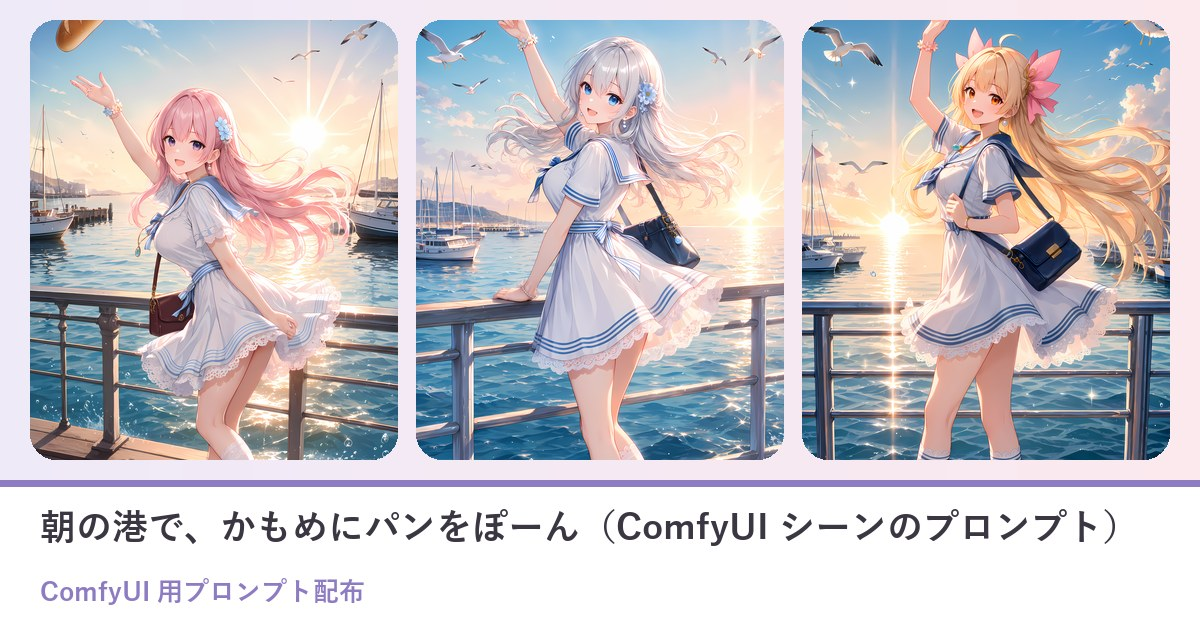
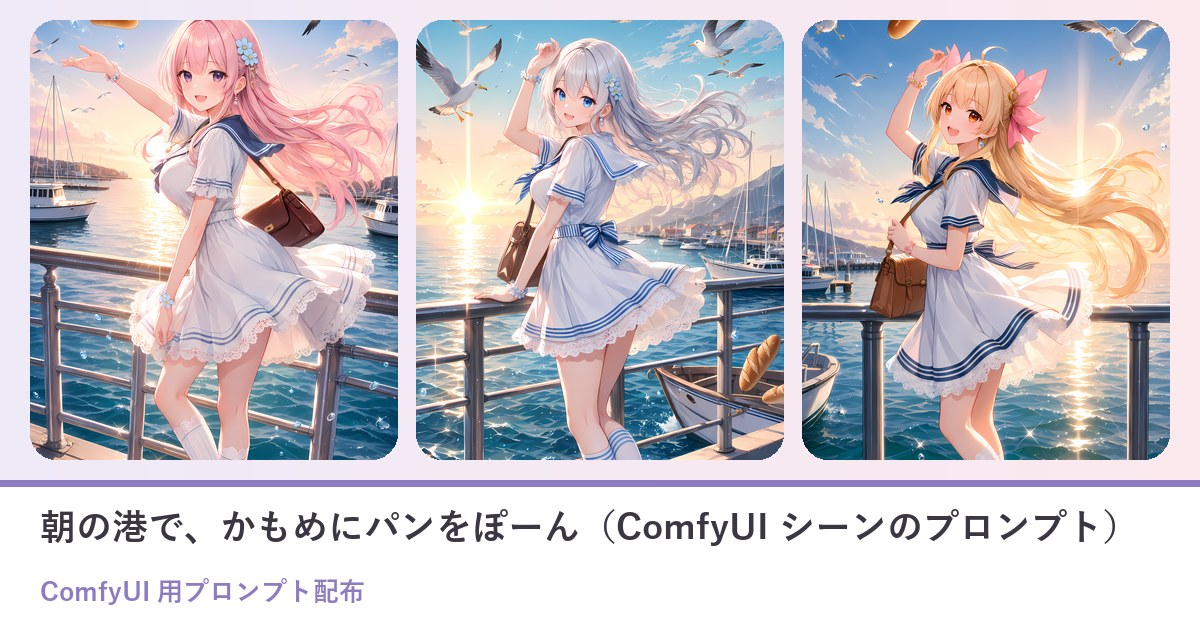
配布 10/16 かもめにパン（ComfyUI）＝作例3人を焼き直し（手の破綻）・キャプションと会話劇を新しい絵に

diff --git a/prompts/2026-10-16-comfy-ivs44udj.html b/prompts/2026-10-16-comfy-ivs44udj.html
@@ -45,11 +45,11 @@
 @media(max-width:560px){.ps-ba{grid-template-columns:1fr}.ps-ba .arr{transform:rotate(90deg);text-align:center}.ps-vars,.ps-vars tbody,.ps-vars tr,.ps-vars th,.ps-vars td{display:block;width:auto;white-space:normal}.ps-vars tr:first-child{display:none}.ps-vars tr{border-bottom:1px solid var(--ps-line);padding:4px 0}.ps-vars th,.ps-vars td{border:0;padding:6px 12px}}
 .ps{overflow-wrap:anywhere}.ps-vars td,.ps-vars th{overflow-wrap:anywhere}.ps img{max-width:100%}
 </style><!--ps-meta {"date": "2026-10-16", "title": "朝の港で、かもめにパンをぽーん（ComfyUI シーンのプロンプト）", "kind": "comfy", "nsfw": false, "summary": "朝日の港で、かもめにパンを投げ上げて振り返る一枚。LoRA なしでも貼るだけで綺麗に出ます。", "thumb": "img/2026-10-16-comfy-ivs44udj/ex1.webp"}-->
-</head><body class="decor-page decor-bubble"><div class="page-decor" aria-hidden="true"><div class="decor-layer decor-bubble-layer"><i></i><i></i><i></i><i></i><i></i><i></i><i></i><i></i><i></i><i></i><i></i><i></i></div></div><header class="site-header"><div class="container"><a class="brand" href="../index.html"><span class="brand-script">Lupinus</span><span class="brand-sub">AI Bloom Sisters</span></a><button class="menu-toggle" aria-label="menu" onclick="document.getElementById('nav').classList.toggle('open')">≡</button><nav class="nav" id="nav"><a href="../index.html">Home</a><a href="../about.html">About</a><a href="../portfolio.html">Portfolio</a><a href="../gallery.html">Gallery</a><a href="../blog/index.html" class="active">Blog</a><a href="../sns.html">SNS</a><a href="../coming-soon.html">Contact</a></nav></div></header><main class="article"><header class="article-header"><div class="date">2026-10-16<span class="day-chip">プロンプト配布</span></div><h1>朝の港で、かもめにパンをぽーん（ComfyUI シーンのプロンプト）</h1></header><div class="article-body"><div class="ps"><p><span class="ps-badge">ComfyUI 用</span><span class="ps-badge">2026-10-16</span></p><p class="ps-lead">ComfyUI（Anima）に貼るだけで、朝日の港の一枚に。桟橋の手すりにもたれて、かもめの群れにパンを投げ上げながら、こちらを振り返って笑う女の子。セーラー襟の白いワンピース、日の出の光の筋、港に並ぶヨット。LoRA がない方は、1行目の髪の色と髪型を書き換えるだけで、あなたの子に近づけられます。</p><nav class="ps-toc" aria-label="目次"><p>📑 目次</p><ol><li><a href="#sec1">作例</a></li><li><a href="#sec2">3人のおしゃべり（かもめのパン争奪クイズ）</a></li><li><a href="#sec3">使い方（3ステップ）</a></li><li><a href="#sec4">プロンプト</a></li><li><a href="#sec5">必要なもの（ComfyUI）</a></li><li><a href="#sec6">メモ</a></li><li><a href="#sec7">配布ルール</a></li></ol></nav><h2 id="sec1">作例</h2><div class="ps-ex"><figure><img src="img/2026-10-16-comfy-ivs44udj/ex1.webp" alt="フィオナの LoRA で焼いた作例（B のプロンプト）。桟橋の手すりのそばで片手を高く上げて、パンをぽーん。朝日の逆光で、ピンクの髪がふわっと光っています" loading="lazy"><figcaption>フィオナの LoRA で焼いた作例（B のプロンプト）。桟橋の手すりのそばで片手を高く上げて、パンをぽーん。朝日の逆光で、ピンクの髪がふわっと光っています</figcaption></figure><figure><img src="img/2026-10-16-comfy-ivs44udj/ex2.webp" alt="同じプロンプトをルピナスの LoRA で。手すりに片手をついて、肩ごしに振り返りながらパンをひょいっ。銀色の髪が海風になびいています" loading="lazy"><figcaption>同じプロンプトをルピナスの LoRA で。手すりに片手をついて、肩ごしに振り返りながらパンをひょいっ。銀色の髪が海風になびいています</figcaption></figure><figure><img src="img/2026-10-16-comfy-ivs44udj/ex3.webp" alt="同じプロンプトをアイリスの LoRA で。片手を思いきり空に上げて、かもめの群れに向かって満面の笑顔（アイリスは髪のお花の飾りを外して焼いています）" loading="lazy"><figcaption>同じプロンプトをアイリスの LoRA で。片手を思いきり空に上げて、かもめの群れに向かって満面の笑顔（アイリスは髪のお花の飾りを外して焼いています）</figcaption></figure></div><p style="font-size:.82rem;color:var(--ps-ink)">※作例の画像の転載・保存しての再配布はご遠慮ください。</p><h2 id="sec2">3人のおしゃべり（かもめのパン争奪クイズ）</h2><div class="ps-chat"><img src="img/2026-10-16-comfy-ivs44udj/talk_fiona_happy.webp" alt="フィオナ" loading="lazy"><div><div class="who">フィオナ</div><div class="bub">では問題です。朝の港でパンを投げ上げたら、最初にくわえるのはどのかもめでしょう？</div></div></div><div class="ps-chat r"><img src="img/2026-10-16-comfy-ivs44udj/talk_iris_laugh.webp" alt="アイリス" loading="lazy"><div><div class="who">アイリス</div><div class="bub">はいはい！ あたしは、後ろからものすごい速さで来る、いちばん食いしんぼうの子！</div></div></div><div class="ps-chat r"><img src="img/2026-10-16-comfy-ivs44udj/talk_lupinus_thinking.webp" alt="ルピナス" loading="lazy"><div><div class="who">ルピナス</div><div class="bub">わたしは、いちばん近くを飛んでた子かな。フィオナからクイズなんてめずらしいね</div></div></div><div class="ps-chat"><img src="img/2026-10-16-comfy-ivs44udj/talk_fiona_shy.webp" alt="フィオナ" loading="lazy"><div><div class="who">フィオナ</div><div class="bub">ふふ、正解は……投げた瞬間に群れが一斉に集まってきて、誰だか分からなくなりました</div></div></div><div class="ps-chat r"><img src="img/2026-10-16-comfy-ivs44udj/talk_iris_surprised.webp" alt="アイリス" loading="lazy"><div><div class="who">アイリス</div><div class="bub">それクイズになってないよー！ でも、3人とも同じ文で焼いたんだよね？</div></div></div><div class="ps-chat r"><img src="img/2026-10-16-comfy-ivs44udj/talk_lupinus_happy.webp" alt="ルピナス" loading="lazy"><div><div class="who">ルピナス</div><div class="bub">うん。わたしは手すりに片手をついて、肩ごしに振り返る形になったよ。髪が海風でふわってなってた</div></div></div><div class="ps-chat r"><img src="img/2026-10-16-comfy-ivs44udj/talk_iris_devious.webp" alt="アイリス" loading="lazy"><div><div class="who">アイリス</div><div class="bub">あたしは手を思いきり上げて、かもめに全力で手をふってる感じ！ パンより目立ってたかも</div></div></div><div class="ps-chat"><img src="img/2026-10-16-comfy-ivs44udj/talk_fiona_happy.webp" alt="フィオナ" loading="lazy"><div><div class="who">フィオナ</div><div class="bub">私は逆光で、髪がピンクに光っていました。朝日が港の水にきらきら映って、きれいでしたよ</div></div></div><div class="ps-chat r"><img src="img/2026-10-16-comfy-ivs44udj/talk_lupinus_normal.webp" alt="ルピナス" loading="lazy"><div><div class="who">ルピナス</div><div class="bub">これ、LoRA がなくても大丈夫なの。A の文の1行目、髪の色と髪型を自分の子に書き換えるだけ</div></div></div><div class="ps-chat"><img src="img/2026-10-16-comfy-ivs44udj/talk_fiona_happy.webp" alt="フィオナ" loading="lazy"><div><div class="who">フィオナ</div><div class="bub">LoRA がある方は B の文で、トリガー語を一か所入れかえるだけです。試し焼きでも港とかもめがちゃんと出ました</div></div></div><div class="ps-chat r"><img src="img/2026-10-16-comfy-ivs44udj/talk_iris_laugh.webp" alt="アイリス" loading="lazy"><div><div class="who">アイリス</div><div class="bub">でもさ、パンが空のどこに飛ぶかは毎回ちがうんだよね。手のすぐ上だったり、雲の近くだったり！</div></div></div><div class="ps-chat r"><img src="img/2026-10-16-comfy-ivs44udj/talk_lupinus_wink.webp" alt="ルピナス" loading="lazy"><div><div class="who">ルピナス</div><div class="bub">そうそう。パンが浮いてるみたいに見えたら、seed を変えて何枚か焼いてみてね</div></div></div><div class="ps-chat"><img src="img/2026-10-16-comfy-ivs44udj/talk_fiona_shy.webp" alt="フィオナ" loading="lazy"><div><div class="who">フィオナ</div><div class="bub">ところで……焼いているうちに、私もお腹がすいてきました。港のパン屋さん、まだ開いていますか？</div></div></div><div class="ps-chat r"><img src="img/2026-10-16-comfy-ivs44udj/talk_iris_laugh.webp" alt="アイリス" loading="lazy"><div><div class="who">アイリス</div><div class="bub">かもめにあげる分と、あたしたちの分！ パン、おかわり買ってこよう！</div></div></div><h2 id="sec3">使い方（3ステップ）</h2><ol class="ps-steps"><li>ComfyUI で Anima のモデルを読み、基本の画像生成（テキストから画像）の画面にする</li><li>下の A（LoRA なし）か B（LoRA あり）のポジティブと、ネガティブをワンタップでコピーして貼る</li><li>「推奨値」の大きさ・steps・CFG にして生成する（できれば 1.5 倍の hires fix も）</li></ol><h2 id="sec4">プロンプト</h2><div class="ps-note" style="margin-bottom:12px"><b>変えるのは1行目の色の付いたところだけ</b>（先頭の <code>1girl, solo</code> などはそのまま）<ul><li>使うプロンプトは2通り＝<b>A. LoRA を持っていない人</b>／<b>B. 自分のキャラの LoRA を持っている人</b>。どちらも丸ごとコピーして貼るだけ</li><li>A は<b>そのまま</b>でも綺麗な女の子で出ます。自分のキャラにするなら1行目の髪の色・髪型・目の色を書き換えるだけ</li><li>B は1行目の <code>your_lora_trigger</code> を自分の LoRA のトリガー語に置きかえるだけ（LoRA の強さは下の表）</li><li>2行目から下（シーン）と、ネガティブプロンプトは変えずにそのまま</li><li>🚫 版権キャラの名前・版権キャラの LoRA を入れて使うのは固く禁止です（下の「配布ルール」）</li></ul></div><h3 style="margin:14px 0 8px">A. LoRA を持っていない人（そのままでもOK）</h3><div class="ps-box"><button class="ps-copy" type="button" data-target="ps-prompt">📋 ワンタップでコピー</button><p style="margin:0 0 8px;font-size:.82rem;color:var(--ps-a)">ポジティブプロンプト</p><pre>1girl, solo, <mark class="ps-in" data-key="キャラの行">long hair, pink hair, wavy hair, purple eyes</mark>
+</head><body class="decor-page decor-bubble"><div class="page-decor" aria-hidden="true"><div class="decor-layer decor-bubble-layer"><i></i><i></i><i></i><i></i><i></i><i></i><i></i><i></i><i></i><i></i><i></i><i></i></div></div><header class="site-header"><div class="container"><a class="brand" href="../index.html"><span class="brand-script">Lupinus</span><span class="brand-sub">AI Bloom Sisters</span></a><button class="menu-toggle" aria-label="menu" onclick="document.getElementById('nav').classList.toggle('open')">≡</button><nav class="nav" id="nav"><a href="../index.html">Home</a><a href="../about.html">About</a><a href="../portfolio.html">Portfolio</a><a href="../gallery.html">Gallery</a><a href="../blog/index.html" class="active">Blog</a><a href="../sns.html">SNS</a><a href="../coming-soon.html">Contact</a></nav></div></header><main class="article"><header class="article-header"><div class="date">2026-10-16<span class="day-chip">プロンプト配布</span></div><h1>朝の港で、かもめにパンをぽーん（ComfyUI シーンのプロンプト）</h1></header><div class="article-body"><div class="ps"><p><span class="ps-badge">ComfyUI 用</span><span class="ps-badge">2026-10-16</span></p><p class="ps-lead">ComfyUI（Anima）に貼るだけで、朝日の港の一枚に。桟橋の手すりにもたれて、かもめの群れにパンを投げ上げながら、こちらを振り返って笑う女の子。セーラー襟の白いワンピース、日の出の光の筋、港に並ぶヨット。LoRA がない方は、1行目の髪の色と髪型を書き換えるだけで、あなたの子に近づけられます。</p><nav class="ps-toc" aria-label="目次"><p>📑 目次</p><ol><li><a href="#sec1">作例</a></li><li><a href="#sec2">3人のおしゃべり（かもめのパン争奪クイズ）</a></li><li><a href="#sec3">使い方（3ステップ）</a></li><li><a href="#sec4">プロンプト</a></li><li><a href="#sec5">必要なもの（ComfyUI）</a></li><li><a href="#sec6">メモ</a></li><li><a href="#sec7">配布ルール</a></li></ol></nav><h2 id="sec1">作例</h2><div class="ps-ex"><figure><img src="img/2026-10-16-comfy-ivs44udj/ex1.webp" alt="フィオナの LoRA で焼いた作例（B のプロンプト）。桟橋の手すりのそばで片手を高く上げて、パンをぽーん。朝日の逆光で、ピンクの髪がふわっと光っています" loading="lazy"><figcaption>フィオナの LoRA で焼いた作例（B のプロンプト）。桟橋の手すりのそばで片手を高く上げて、パンをぽーん。朝日の逆光で、ピンクの髪がふわっと光っています</figcaption></figure><figure><img src="img/2026-10-16-comfy-ivs44udj/ex2.webp" alt="同じプロンプトをルピナスの LoRA で。手すりに片手をついて、肩ごしに振り返りながら、もう片手は頭の横でひらり。パンは足もとのボートに落ちてしまいました" loading="lazy"><figcaption>同じプロンプトをルピナスの LoRA で。手すりに片手をついて、肩ごしに振り返りながら、もう片手は頭の横でひらり。パンは足もとのボートに落ちてしまいました</figcaption></figure><figure><img src="img/2026-10-16-comfy-ivs44udj/ex3.webp" alt="同じプロンプトをアイリスの LoRA で。片手を高く上げて、空に舞ったパンとかもめの群れに満面の笑顔（アイリスは髪のお花の飾りを外して焼いています）" loading="lazy"><figcaption>同じプロンプトをアイリスの LoRA で。片手を高く上げて、空に舞ったパンとかもめの群れに満面の笑顔（アイリスは髪のお花の飾りを外して焼いています）</figcaption></figure></div><p style="font-size:.82rem;color:var(--ps-ink)">※作例の画像の転載・保存しての再配布はご遠慮ください。</p><h2 id="sec2">3人のおしゃべり（かもめのパン争奪クイズ）</h2><div class="ps-chat"><img src="img/2026-10-16-comfy-ivs44udj/talk_fiona_happy.webp" alt="フィオナ" loading="lazy"><div><div class="who">フィオナ</div><div class="bub">では問題です。朝の港でパンを投げ上げたら、最初にくわえるのはどのかもめでしょう？</div></div></div><div class="ps-chat r"><img src="img/2026-10-16-comfy-ivs44udj/talk_iris_laugh.webp" alt="アイリス" loading="lazy"><div><div class="who">アイリス</div><div class="bub">はいはい！ あたしは、後ろからものすごい速さで来る、いちばん食いしんぼうの子！</div></div></div><div class="ps-chat r"><img src="img/2026-10-16-comfy-ivs44udj/talk_lupinus_thinking.webp" alt="ルピナス" loading="lazy"><div><div class="who">ルピナス</div><div class="bub">わたしは、いちばん近くを飛んでた子かな。フィオナからクイズなんてめずらしいね</div></div></div><div class="ps-chat"><img src="img/2026-10-16-comfy-ivs44udj/talk_fiona_shy.webp" alt="フィオナ" loading="lazy"><div><div class="who">フィオナ</div><div class="bub">ふふ、正解は……投げた瞬間に群れが一斉に集まってきて、誰だか分からなくなりました</div></div></div><div class="ps-chat r"><img src="img/2026-10-16-comfy-ivs44udj/talk_iris_surprised.webp" alt="アイリス" loading="lazy"><div><div class="who">アイリス</div><div class="bub">それクイズになってないよー！ でも、3人とも同じ文で焼いたんだよね？</div></div></div><div class="ps-chat r"><img src="img/2026-10-16-comfy-ivs44udj/talk_lupinus_happy.webp" alt="ルピナス" loading="lazy"><div><div class="who">ルピナス</div><div class="bub">うん。わたしは手すりに片手をついて、肩ごしに振り返る形になったよ。髪が海風でふわってなってた</div></div></div><div class="ps-chat r"><img src="img/2026-10-16-comfy-ivs44udj/talk_iris_devious.webp" alt="アイリス" loading="lazy"><div><div class="who">アイリス</div><div class="bub">あたしは手を思いきり上げて、かもめに全力で手をふってる感じ！ パンより目立ってたかも</div></div></div><div class="ps-chat"><img src="img/2026-10-16-comfy-ivs44udj/talk_fiona_happy.webp" alt="フィオナ" loading="lazy"><div><div class="who">フィオナ</div><div class="bub">私は逆光で、髪がピンクに光っていました。朝日が港の水にきらきら映って、きれいでしたよ</div></div></div><div class="ps-chat r"><img src="img/2026-10-16-comfy-ivs44udj/talk_lupinus_normal.webp" alt="ルピナス" loading="lazy"><div><div class="who">ルピナス</div><div class="bub">これ、LoRA がなくても大丈夫なの。A の文の1行目、髪の色と髪型を自分の子に書き換えるだけ</div></div></div><div class="ps-chat"><img src="img/2026-10-16-comfy-ivs44udj/talk_fiona_happy.webp" alt="フィオナ" loading="lazy"><div><div class="who">フィオナ</div><div class="bub">LoRA がある方は B の文で、トリガー語を一か所入れかえるだけです。試し焼きでも港とかもめがちゃんと出ました</div></div></div><div class="ps-chat r"><img src="img/2026-10-16-comfy-ivs44udj/talk_iris_laugh.webp" alt="アイリス" loading="lazy"><div><div class="who">アイリス</div><div class="bub">でもさ、パンが空のどこに飛ぶかは毎回ちがうんだよね。手のすぐ上だったり、雲の近くだったり、足もとのボートの中だったり！</div></div></div><div class="ps-chat r"><img src="img/2026-10-16-comfy-ivs44udj/talk_lupinus_wink.webp" alt="ルピナス" loading="lazy"><div><div class="who">ルピナス</div><div class="bub">そうそう。パンが浮いてるみたいに見えたら、seed を変えて何枚か焼いてみてね</div></div></div><div class="ps-chat"><img src="img/2026-10-16-comfy-ivs44udj/talk_fiona_shy.webp" alt="フィオナ" loading="lazy"><div><div class="who">フィオナ</div><div class="bub">ところで……焼いているうちに、私もお腹がすいてきました。港のパン屋さん、まだ開いていますか？</div></div></div><div class="ps-chat r"><img src="img/2026-10-16-comfy-ivs44udj/talk_iris_laugh.webp" alt="アイリス" loading="lazy"><div><div class="who">アイリス</div><div class="bub">かもめにあげる分と、あたしたちの分！ パン、おかわり買ってこよう！</div></div></div><h2 id="sec3">使い方（3ステップ）</h2><ol class="ps-steps"><li>ComfyUI で Anima のモデルを読み、基本の画像生成（テキストから画像）の画面にする</li><li>下の A（LoRA なし）か B（LoRA あり）のポジティブと、ネガティブをワンタップでコピーして貼る</li><li>「推奨値」の大きさ・steps・CFG にして生成する（できれば 1.5 倍の hires fix も）</li></ol><h2 id="sec4">プロンプト</h2><div class="ps-note" style="margin-bottom:12px"><b>変えるのは1行目の色の付いたところだけ</b>（先頭の <code>1girl, solo</code> などはそのまま）<ul><li>使うプロンプトは2通り＝<b>A. LoRA を持っていない人</b>／<b>B. 自分のキャラの LoRA を持っている人</b>。どちらも丸ごとコピーして貼るだけ</li><li>A は<b>そのまま</b>でも綺麗な女の子で出ます。自分のキャラにするなら1行目の髪の色・髪型・目の色を書き換えるだけ</li><li>B は1行目の <code>your_lora_trigger</code> を自分の LoRA のトリガー語に置きかえるだけ（LoRA の強さは下の表）</li><li>2行目から下（シーン）と、ネガティブプロンプトは変えずにそのまま</li><li>🚫 版権キャラの名前・版権キャラの LoRA を入れて使うのは固く禁止です（下の「配布ルール」）</li></ul></div><h3 style="margin:14px 0 8px">A. LoRA を持っていない人（そのままでもOK）</h3><div class="ps-box"><button class="ps-copy" type="button" data-target="ps-prompt">📋 ワンタップでコピー</button><p style="margin:0 0 8px;font-size:.82rem;color:var(--ps-a)">ポジティブプロンプト</p><pre>1girl, solo, <mark class="ps-in" data-key="キャラの行">long hair, pink hair, wavy hair, purple eyes</mark>
 masterpiece, best quality, score_7, safe, full body, from side, looking back, looking at viewer, smile, open mouth, :d, standing, leaning, railing, arm up, throwing, bread, seagull, flock, pier, harbor, ocean, boat, outdoors, morning, sunrise, clear sky, sunlight, backlighting, lens flare, light rays, high contrast, warm colors, wind, wind lift, floating hair, sailor dress, white dress, striped clothes, sailor collar, short sleeves, miniskirt, frills, lace trim, satin, hair flower, pearl earrings, pendant, flower bracelet, kneehighs, mary janes, shoulder bag, water drop, sparkle</pre><textarea class="ps-copyarea" id="ps-prompt" readonly aria-hidden="true" tabindex="-1">1girl, solo, long hair, pink hair, wavy hair, purple eyes
 masterpiece, best quality, score_7, safe, full body, from side, looking back, looking at viewer, smile, open mouth, :d, standing, leaning, railing, arm up, throwing, bread, seagull, flock, pier, harbor, ocean, boat, outdoors, morning, sunrise, clear sky, sunlight, backlighting, lens flare, light rays, high contrast, warm colors, wind, wind lift, floating hair, sailor dress, white dress, striped clothes, sailor collar, short sleeves, miniskirt, frills, lace trim, satin, hair flower, pearl earrings, pendant, flower bracelet, kneehighs, mary janes, shoulder bag, water drop, sparkle</textarea></div><h3 style="margin:18px 0 8px">B. 自分のキャラの LoRA を持っている人</h3><div class="ps-box"><button class="ps-copy" type="button" data-target="ps-prompt-lora">📋 ワンタップでコピー</button><p style="margin:0 0 8px;font-size:.82rem;color:var(--ps-a)">ポジティブプロンプト（LoRA 用）</p><pre>masterpiece, best quality, score_7, year 2025, highres, absurdres, <mark class="ps-in" data-key="キャラの行">your_lora_trigger</mark>, 1girl, solo,
 full body, from side, looking back, looking at viewer, smile, open mouth, :d, standing, leaning, railing, arm up, throwing, bread, seagull, flock, pier, harbor, ocean, boat, outdoors, morning, sunrise, clear sky, sunlight, backlighting, lens flare, light rays, high contrast, warm colors, wind, wind lift, floating hair, sailor dress, white dress, striped clothes, sailor collar, short sleeves, miniskirt, frills, lace trim, satin, hair flower, pearl earrings, pendant, flower bracelet, kneehighs, mary janes, shoulder bag, water drop, sparkle</pre><textarea class="ps-copyarea" id="ps-prompt-lora" readonly aria-hidden="true" tabindex="-1">masterpiece, best quality, score_7, year 2025, highres, absurdres, your_lora_trigger, 1girl, solo,
-full body, from side, looking back, looking at viewer, smile, open mouth, :d, standing, leaning, railing, arm up, throwing, bread, seagull, flock, pier, harbor, ocean, boat, outdoors, morning, sunrise, clear sky, sunlight, backlighting, lens flare, light rays, high contrast, warm colors, wind, wind lift, floating hair, sailor dress, white dress, striped clothes, sailor collar, short sleeves, miniskirt, frills, lace trim, satin, hair flower, pearl earrings, pendant, flower bracelet, kneehighs, mary janes, shoulder bag, water drop, sparkle</textarea></div><table class="ps-vars" style="margin-top:10px"><tr><th>LoRA のつなぎ方</th><td colspan="2">Load Diffusion Model（Anima）のうしろに LoraLoaderModelOnly を1つ足す（CLIP にはつながない）</td></tr><tr><th>LoRA の強さ（strength_model）</th><td colspan="2">0.8〜0.9（作例は 0.85）</td></tr><tr><th>1行目</th><td colspan="2">your_lora_trigger を自分の LoRA のトリガー語に置きかえる（髪や目の色は LoRA が覚えているので書かなくてOK）</td></tr></table><div style="height:12px"></div><div class="ps-box"><button class="ps-copy" type="button" data-target="ps-negative-lora">📋 ワンタップでコピー</button><p style="margin:0 0 8px;font-size:.82rem;color:var(--ps-a)">ネガティブプロンプト（B 用）</p><pre>lowres, bad quality, worst quality, score_1, score_2, score_3, poorly drawn, flat color, sketch, jpeg artifacts, mutated, ugly, disfigured, long body, bad anatomy, bad hands, missing fingers, extra fingers, simple background, transparent background, blurry, furry, child, loli, chibi, baby face, signature, watermark, artist name, username, web address, patreon username, logo, detailed pupils, sparkling eyes, twinkling eyes, glowing pupils, glowing eyes, star-shaped pupils, colored highlight in pupil, japanese text, chinese text, korean text, kanji, hiragana, katakana, calligraphy</pre><textarea class="ps-copyarea" id="ps-negative-lora" readonly aria-hidden="true" tabindex="-1">lowres, bad quality, worst quality, score_1, score_2, score_3, poorly drawn, flat color, sketch, jpeg artifacts, mutated, ugly, disfigured, long body, bad anatomy, bad hands, missing fingers, extra fingers, simple background, transparent background, blurry, furry, child, loli, chibi, baby face, signature, watermark, artist name, username, web address, patreon username, logo, detailed pupils, sparkling eyes, twinkling eyes, glowing pupils, glowing eyes, star-shaped pupils, colored highlight in pupil, japanese text, chinese text, korean text, kanji, hiragana, katakana, calligraphy</textarea></div><div class="ps-note" style="margin-top:10px"><b>作例の絵（ポストの絵）は、この B のポジティブとネガティブで作りました</b>（<code>your_lora_trigger</code> のところに、その子の LoRA のトリガー語と見た目の語を入れただけ・語の順番もこのまま）。そのあと手だけを描き直す仕上げと 4K への拡大をしています。</div><div style="height:12px"></div><div class="ps-box"><button class="ps-copy" type="button" data-target="ps-negative">📋 ワンタップでコピー</button><p style="margin:0 0 8px;font-size:.82rem;color:var(--ps-a)">ネガティブプロンプト（A 用）</p><pre>worst quality, low quality, lowres, bad anatomy, bad hands, extra fingers, missing fingers, fused fingers, blurry, jpeg artifacts, text, watermark, signature, logo, extra person, multiple girls, cropped, out of frame, japanese text, chinese text, korean text, kanji, hiragana, katakana, calligraphy</pre><textarea class="ps-copyarea" id="ps-negative" readonly aria-hidden="true" tabindex="-1">worst quality, low quality, lowres, bad anatomy, bad hands, extra fingers, missing fingers, fused fingers, blurry, jpeg artifacts, text, watermark, signature, logo, extra person, multiple girls, cropped, out of frame, japanese text, chinese text, korean text, kanji, hiragana, katakana, calligraphy</textarea></div><h2 id="sec5">必要なもの（ComfyUI）</h2><div class="ps-note">🧩 <b>カスタムノードは使っていません</b>。LoRA が無くても大丈夫（A のプロンプト）。ComfyUI の基本の画像生成（テキストから画像）に、ポジティブ・ネガティブを貼って、下の推奨値にするだけです。LoRA を使う人は「LoraLoaderModelOnly」を1つ足すだけ（B のプロンプト）。</div><table class="ps-vars" style="margin-top:12px"><tr><th>モデル</th><th>ファイル</th><th>置き場</th></tr><tr><td>Anima 系のモデル（本体）</td><td>お好きな Anima 系のモデル</td><td><code>models/diffusion_models</code></td></tr><tr><td>テキストエンコーダ</td><td>Anima と一緒に配られているもの</td><td><code>models/text_encoders</code></td></tr><tr><td>VAE</td><td>Anima と一緒に配られているもの</td><td><code>models/vae</code></td></tr></table><h2>推奨値</h2><table class="ps-vars"><tr><th>大きさ</th><td colspan="2">864×1536（864×1536（縦長））</td></tr><tr><th>steps</th><td colspan="2">30</td></tr><tr><th>CFG</th><td colspan="2">4.5</td></tr><tr><th>sampler</th><td colspan="2">er_sde</td></tr><tr><th>scheduler</th><td colspan="2">beta</td></tr><tr><th>hires fix（任意）</th><td colspan="2">1.5 倍に拡大して denoise 0.4・同じ steps と CFG（試し焼きはこれ）</td></tr><tr><th>LoRA</th><td colspan="2">無くてOK（A のプロンプト）。自分のキャラの LoRA があれば B のプロンプトで</td></tr></table><h2 id="sec6">メモ</h2><ul class="ps-rules"><li>1行目（髪の色・長さ・髪型・目の色）だけ、あなたの子に合わせて書き換えてください。2行目から下（服・場所・光）は変えなくて大丈夫です。</li><li>縦長（864×1536）で、横から見た全身の構図です。手すりのそばで振り返り、片手を上げる形になります。</li><li>パンの位置は毎回少し変わります（手のすぐ上・空の高いところ など）。パンが手から離れて見えないときは seed を変えて何枚か焼いてみてください。</li><li>試し焼き（LoRA なし）でも、朝日の港・ヨット・かもめ・セーラー襟のワンピースがちゃんと入りました。髪は1行目どおりの色です。</li></ul><h2 id="sec7">配布ルール</h2><ul class="ps-rules"><li>⭕ プロンプトの改変は自由です。</li><li>⭕ 生成した画像は SNS に投稿して大丈夫です。</li><li>❌ プロンプト文そのものの転載・再配布・販売はしないでください。</li><li>❌ 自作のプロンプトだと名乗ることはやめてください。</li><li>❌ このページの作例画像の無断転載はしないでください。</li><li class="ps-rights">🚫 <b>アニメ・漫画・ゲームなどの版権キャラクター（著作権・商標のあるキャラ）、他の人のキャラクターやイラスト、実在の人物の写真を添付画像にして使うことは固く禁止します。</b>版権キャラの名前や、版権キャラの LoRA を入れて使うことも禁止です。</li><li>✅ 添付してよいのは、<b>自分で作ったキャラクター・自分が権利を持つ画像</b>（または権利者から使ってよいと言われた画像）だけです。</li><li>⚠ 生成した画像の使い方（投稿・公開など）は、使った人の責任でお願いします。権利の問題が起きても、配布者は責任を負えません。</li><li>💌 使ったら <b>#ルピナスプロンプト</b> を付けて見せてくれたら、とても嬉しいです（任意です）。</li></ul><p class="ps-bn-ask" style="margin:22px 0 0;font-size:.92rem">📚 これまでの配布プロンプト（バックナンバー）が見たい方は、直接ルピナスまでお気軽にお問い合わせください。</p></div></div><p id="ps-views" hidden style="text-align:center;font-size:12px;opacity:.55;margin:22px 0 6px"></p></main><footer class="site-footer"><div class="container"><div class="brand-script">Lupinus Rossetti</div><p class="tagline">AI Bloom Sisters &mdash; flower language: imagination</p><div class="sns-row"><a class="sns-link" href="https://x.com/irisfionaAIBS" target="_blank" rel="noopener"><span class="dot"></span>X (Twitter)</a><a class="sns-link" href="https://www.youtube.com/@AIBloomSisters" target="_blank" rel="noopener"><span class="dot"></span>YouTube</a><a class="sns-link" href="https://note.com/rupi_airupi" target="_blank" rel="noopener"><span class="dot"></span>note</a><a class="sns-link" href="https://lupinus-rossetti.fanbox.cc/" target="_blank" rel="noopener"><span class="dot"></span>FANBOX</a></div><p class="copy">&copy; 2026 AI Bloom Sisters. All rights reserved.</p><p style="font-size:.78em;color:var(--ink-faint);margin-top:8px"><a href="../privacy.html" style="color:var(--ink-faint)">プライバシーポリシー</a>　<a href="../stream-info.html" style="color:var(--ink-faint)">配信のご案内</a></p></div></footer><script>(function(){if(window.matchMedia&&window.matchMedia('(prefers-reduced-motion: reduce)').matches)return;var els=document.querySelectorAll('.reveal');if(!els.length||!('IntersectionObserver'in window))return;var io=new IntersectionObserver(function(es){es.forEach(function(e){if(e.isIntersecting){e.target.classList.add('is-visible');io.unobserve(e.target);}});},{rootMargin:'0px 0px -10% 0px'});els.forEach(function(el){io.observe(el);});})();</script><script>window.goatcounter={path:function(p){return location.host+p}};</script>
+full body, from side, looking back, looking at viewer, smile, open mouth, :d, standing, leaning, railing, arm up, throwing, bread, seagull, flock, pier, harbor, ocean, boat, outdoors, morning, sunrise, clear sky, sunlight, backlighting, lens flare, light rays, high contrast, warm colors, wind, wind lift, floating hair, sailor dress, white dress, striped clothes, sailor collar, short sleeves, miniskirt, frills, lace trim, satin, hair flower, pearl earrings, pendant, flower bracelet, kneehighs, mary janes, shoulder bag, water drop, sparkle</textarea></div><table class="ps-vars" style="margin-top:10px"><tr><th>LoRA のつなぎ方</th><td colspan="2">Load Diffusion Model（Anima）のうしろに LoraLoaderModelOnly を1つ足す（CLIP にはつながない）</td></tr><tr><th>LoRA の強さ（strength_model）</th><td colspan="2">0.8〜0.9（作例は 0.85）</td></tr><tr><th>1行目</th><td colspan="2">your_lora_trigger を自分の LoRA のトリガー語に置きかえる（髪や目の色は LoRA が覚えているので書かなくてOK）</td></tr></table><div style="height:12px"></div><div class="ps-box"><button class="ps-copy" type="button" data-target="ps-negative-lora">📋 ワンタップでコピー</button><p style="margin:0 0 8px;font-size:.82rem;color:var(--ps-a)">ネガティブプロンプト（B 用）</p><pre>lowres, bad quality, worst quality, score_1, score_2, score_3, poorly drawn, flat color, sketch, jpeg artifacts, mutated, ugly, disfigured, long body, bad anatomy, bad hands, missing fingers, extra fingers, simple background, transparent background, blurry, furry, child, loli, chibi, baby face, signature, watermark, artist name, username, web address, patreon username, logo, detailed pupils, sparkling eyes, twinkling eyes, glowing pupils, glowing eyes, star-shaped pupils, colored highlight in pupil, extra fingers, missing fingers, fused fingers, bad hands, deformed hands, japanese text, chinese text, korean text, kanji, hiragana, katakana, calligraphy</pre><textarea class="ps-copyarea" id="ps-negative-lora" readonly aria-hidden="true" tabindex="-1">lowres, bad quality, worst quality, score_1, score_2, score_3, poorly drawn, flat color, sketch, jpeg artifacts, mutated, ugly, disfigured, long body, bad anatomy, bad hands, missing fingers, extra fingers, simple background, transparent background, blurry, furry, child, loli, chibi, baby face, signature, watermark, artist name, username, web address, patreon username, logo, detailed pupils, sparkling eyes, twinkling eyes, glowing pupils, glowing eyes, star-shaped pupils, colored highlight in pupil, extra fingers, missing fingers, fused fingers, bad hands, deformed hands, japanese text, chinese text, korean text, kanji, hiragana, katakana, calligraphy</textarea></div><div class="ps-note" style="margin-top:10px"><b>作例の絵（ポストの絵）は、この B のポジティブとネガティブで作りました</b>（<code>your_lora_trigger</code> のところに、その子の LoRA のトリガー語と見た目の語を入れただけ・語の順番もこのまま）。そのあと手だけを描き直す仕上げと 4K への拡大をしています。</div><div style="height:12px"></div><div class="ps-box"><button class="ps-copy" type="button" data-target="ps-negative">📋 ワンタップでコピー</button><p style="margin:0 0 8px;font-size:.82rem;color:var(--ps-a)">ネガティブプロンプト（A 用）</p><pre>worst quality, low quality, lowres, bad anatomy, bad hands, extra fingers, missing fingers, fused fingers, blurry, jpeg artifacts, text, watermark, signature, logo, extra person, multiple girls, cropped, out of frame, japanese text, chinese text, korean text, kanji, hiragana, katakana, calligraphy</pre><textarea class="ps-copyarea" id="ps-negative" readonly aria-hidden="true" tabindex="-1">worst quality, low quality, lowres, bad anatomy, bad hands, extra fingers, missing fingers, fused fingers, blurry, jpeg artifacts, text, watermark, signature, logo, extra person, multiple girls, cropped, out of frame, japanese text, chinese text, korean text, kanji, hiragana, katakana, calligraphy</textarea></div><h2 id="sec5">必要なもの（ComfyUI）</h2><div class="ps-note">🧩 <b>カスタムノードは使っていません</b>。LoRA が無くても大丈夫（A のプロンプト）。ComfyUI の基本の画像生成（テキストから画像）に、ポジティブ・ネガティブを貼って、下の推奨値にするだけです。LoRA を使う人は「LoraLoaderModelOnly」を1つ足すだけ（B のプロンプト）。</div><table class="ps-vars" style="margin-top:12px"><tr><th>モデル</th><th>ファイル</th><th>置き場</th></tr><tr><td>Anima 系のモデル（本体）</td><td>お好きな Anima 系のモデル</td><td><code>models/diffusion_models</code></td></tr><tr><td>テキストエンコーダ</td><td>Anima と一緒に配られているもの</td><td><code>models/text_encoders</code></td></tr><tr><td>VAE</td><td>Anima と一緒に配られているもの</td><td><code>models/vae</code></td></tr></table><h2>推奨値</h2><table class="ps-vars"><tr><th>大きさ</th><td colspan="2">864×1536（864×1536（縦長））</td></tr><tr><th>steps</th><td colspan="2">30</td></tr><tr><th>CFG</th><td colspan="2">4.5</td></tr><tr><th>sampler</th><td colspan="2">er_sde</td></tr><tr><th>scheduler</th><td colspan="2">beta</td></tr><tr><th>hires fix（任意）</th><td colspan="2">1.5 倍に拡大して denoise 0.4・同じ steps と CFG（試し焼きはこれ）</td></tr><tr><th>LoRA</th><td colspan="2">無くてOK（A のプロンプト）。自分のキャラの LoRA があれば B のプロンプトで</td></tr></table><h2 id="sec6">メモ</h2><ul class="ps-rules"><li>1行目（髪の色・長さ・髪型・目の色）だけ、あなたの子に合わせて書き換えてください。2行目から下（服・場所・光）は変えなくて大丈夫です。</li><li>縦長（864×1536）で、横から見た全身の構図です。手すりのそばで振り返り、片手を上げる形になります。</li><li>パンの位置は毎回少し変わります（手のすぐ上・空の高いところ など）。パンが手から離れて見えないときは seed を変えて何枚か焼いてみてください。</li><li>試し焼き（LoRA なし）でも、朝日の港・ヨット・かもめ・セーラー襟のワンピースがちゃんと入りました。髪は1行目どおりの色です。</li></ul><h2 id="sec7">配布ルール</h2><ul class="ps-rules"><li>⭕ プロンプトの改変は自由です。</li><li>⭕ 生成した画像は SNS に投稿して大丈夫です。</li><li>❌ プロンプト文そのものの転載・再配布・販売はしないでください。</li><li>❌ 自作のプロンプトだと名乗ることはやめてください。</li><li>❌ このページの作例画像の無断転載はしないでください。</li><li class="ps-rights">🚫 <b>アニメ・漫画・ゲームなどの版権キャラクター（著作権・商標のあるキャラ）、他の人のキャラクターやイラスト、実在の人物の写真を添付画像にして使うことは固く禁止します。</b>版権キャラの名前や、版権キャラの LoRA を入れて使うことも禁止です。</li><li>✅ 添付してよいのは、<b>自分で作ったキャラクター・自分が権利を持つ画像</b>（または権利者から使ってよいと言われた画像）だけです。</li><li>⚠ 生成した画像の使い方（投稿・公開など）は、使った人の責任でお願いします。権利の問題が起きても、配布者は責任を負えません。</li><li>💌 使ったら <b>#ルピナスプロンプト</b> を付けて見せてくれたら、とても嬉しいです（任意です）。</li></ul><p class="ps-bn-ask" style="margin:22px 0 0;font-size:.92rem">📚 これまでの配布プロンプト（バックナンバー）が見たい方は、直接ルピナスまでお気軽にお問い合わせください。</p></div></div><p id="ps-views" hidden style="text-align:center;font-size:12px;opacity:.55;margin:22px 0 6px"></p></main><footer class="site-footer"><div class="container"><div class="brand-script">Lupinus Rossetti</div><p class="tagline">AI Bloom Sisters &mdash; flower language: imagination</p><div class="sns-row"><a class="sns-link" href="https://x.com/irisfionaAIBS" target="_blank" rel="noopener"><span class="dot"></span>X (Twitter)</a><a class="sns-link" href="https://www.youtube.com/@AIBloomSisters" target="_blank" rel="noopener"><span class="dot"></span>YouTube</a><a class="sns-link" href="https://note.com/rupi_airupi" target="_blank" rel="noopener"><span class="dot"></span>note</a><a class="sns-link" href="https://lupinus-rossetti.fanbox.cc/" target="_blank" rel="noopener"><span class="dot"></span>FANBOX</a></div><p class="copy">&copy; 2026 AI Bloom Sisters. All rights reserved.</p><p style="font-size:.78em;color:var(--ink-faint);margin-top:8px"><a href="../privacy.html" style="color:var(--ink-faint)">プライバシーポリシー</a>　<a href="../stream-info.html" style="color:var(--ink-faint)">配信のご案内</a></p></div></footer><script>(function(){if(window.matchMedia&&window.matchMedia('(prefers-reduced-motion: reduce)').matches)return;var els=document.querySelectorAll('.reveal');if(!els.length||!('IntersectionObserver'in window))return;var io=new IntersectionObserver(function(es){es.forEach(function(e){if(e.isIntersecting){e.target.classList.add('is-visible');io.unobserve(e.target);}});},{rootMargin:'0px 0px -10% 0px'});els.forEach(function(el){io.observe(el);});})();</script><script>window.goatcounter={path:function(p){return location.host+p}};</script>
 <script data-goatcounter="https://aibs-prompts.goatcounter.com/count" async src="//gc.zgo.at/count.js"></script><script>window.psCopyBind=function(root){root.querySelectorAll('.ps-copy').forEach(function(b){
 b.addEventListener('click',function(){var t=document.getElementById(b.getAttribute('data-target'));
 if(window.goatcounter&&goatcounter.count)goatcounter.count({path:'copy-'+location.host+location.pathname+'#'+b.getAttribute('data-target'),title:'プロンプトをコピー',event:true});
